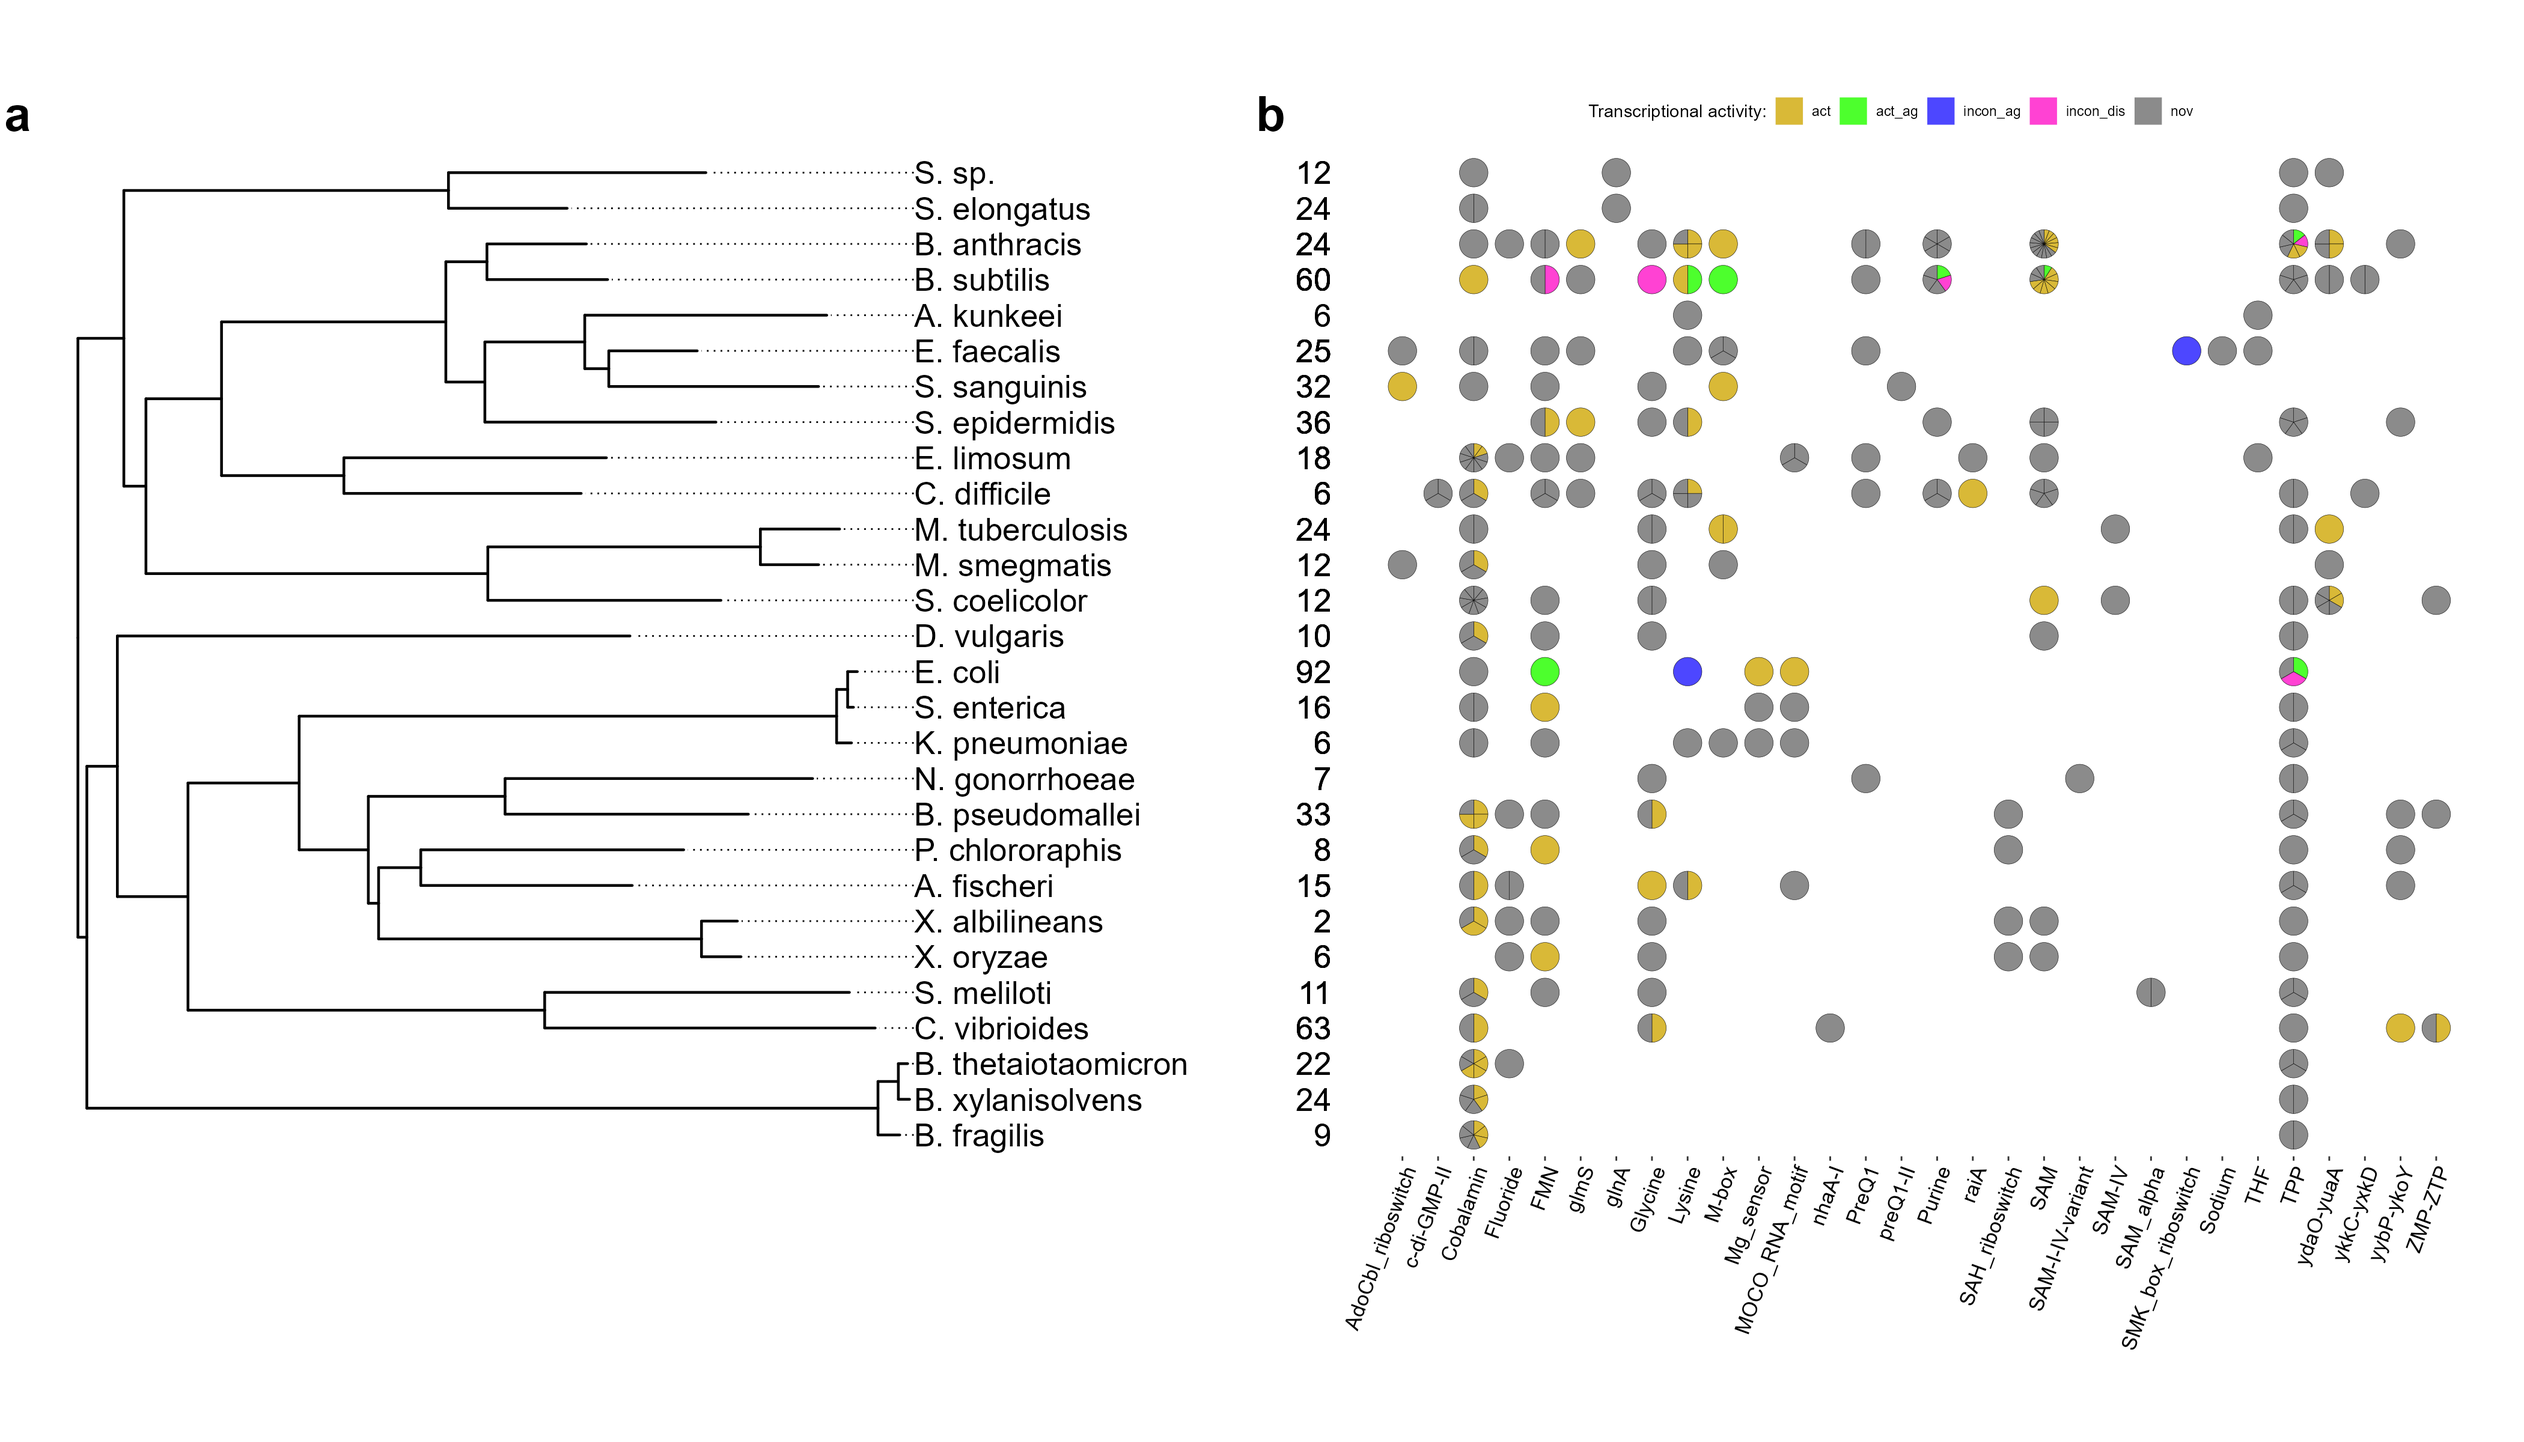
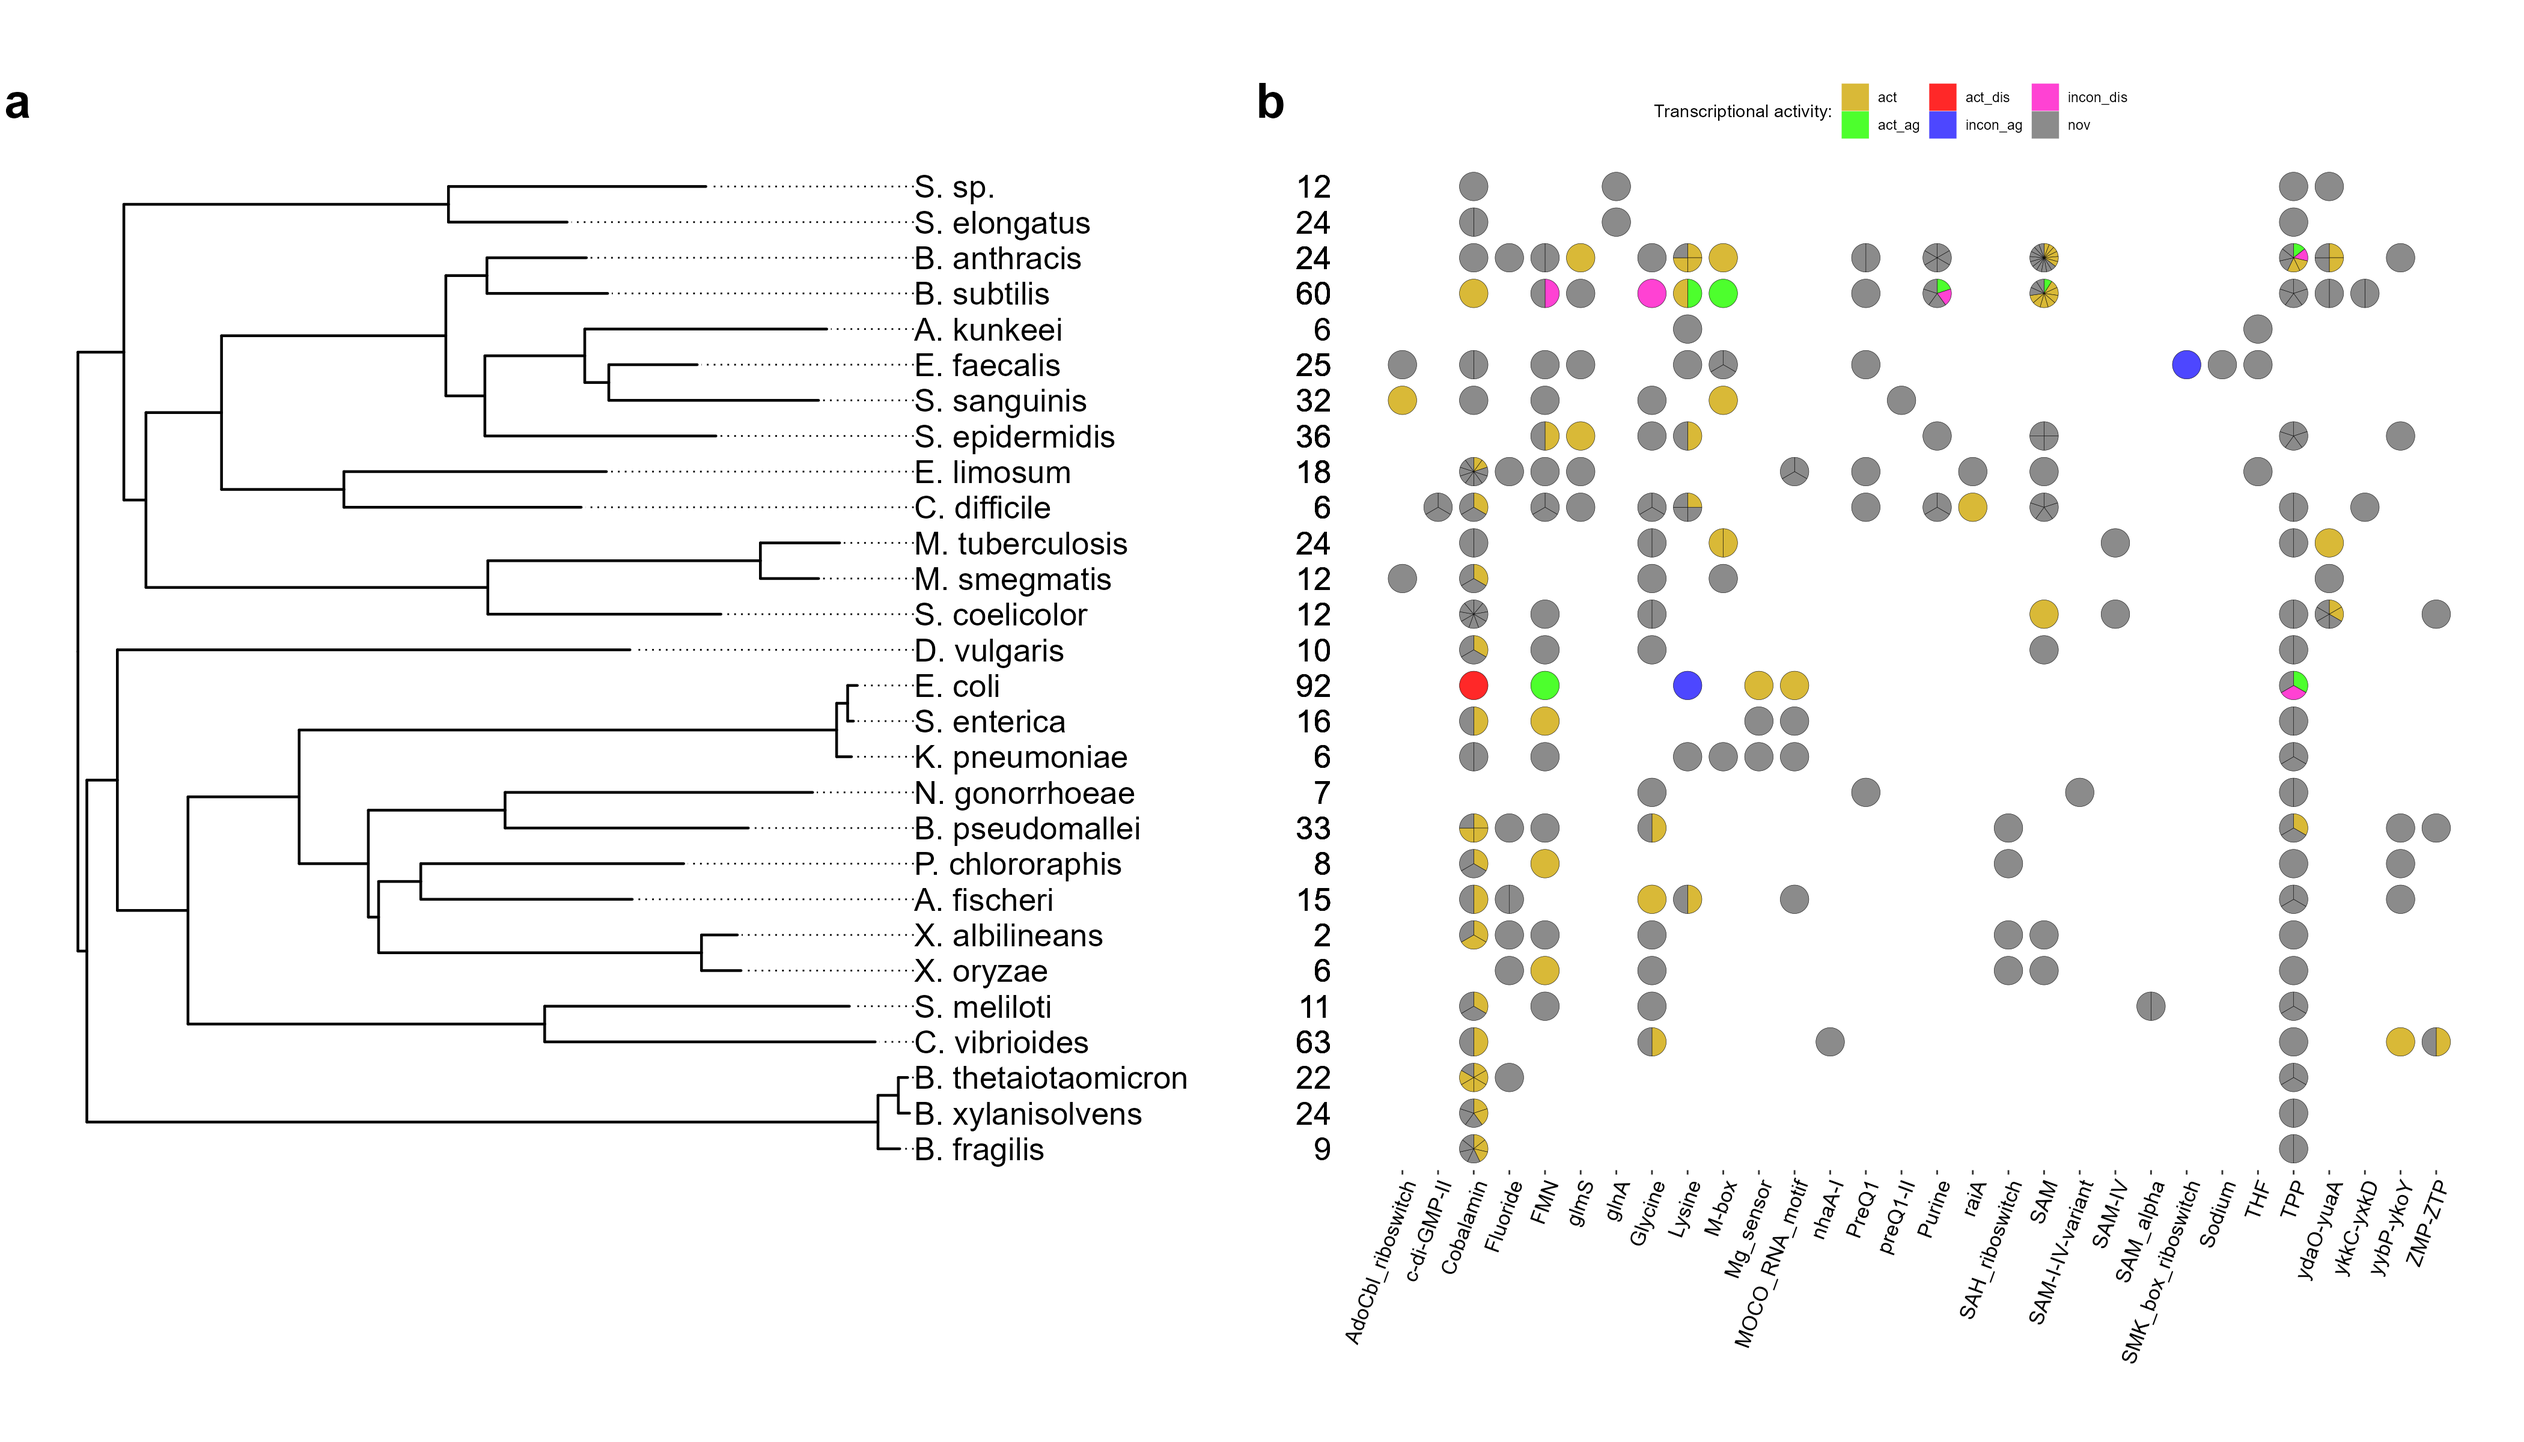
Fix bug where one of the lit conditions was missing from plot

diff --git a/validation/plotting/collect_peakplot_data.py b/validation/plotting/collect_peakplot_data.py
@@ -15,7 +15,7 @@ def classname(rowid: str):
     return rowid.split("#")[0]
 
 
-mean_t = 0.01
+mean_t = 0.05
 var_t = 0.05
 
 # %%
@@ -130,7 +130,7 @@ for d in big_tab_list:
 
     sum_act_agree[f"{dset}|{tname}"] += int(lit == "active_agree")
     sum_incon_agree[f"{dset}|{tname}"] += int(lit == "incon_agree")
-    sum_act_disagree[f"{dset}|{tname}"] += int(lit == "act_disagree")
+    sum_act_disagree[f"{dset}|{tname}"] += int(lit == "active_disagree")
     sum_incon_disagree[f"{dset}|{tname}"] += int(lit == "incon_disagree")
 
 big_tab = pd.DataFrame(big_tab_list)
@@ -157,7 +157,7 @@ for k, v in sum_tot.items():
             "sras": sra_dict[s[0]],
             "active_agree": sum_act_agree[k],
             "incon_agree": sum_incon_agree[k],
-            "act_disagree": sum_act_disagree[k],
+            "active_disagree": sum_act_disagree[k],
             "incon_disagree": sum_incon_disagree[k],
         }
     )
